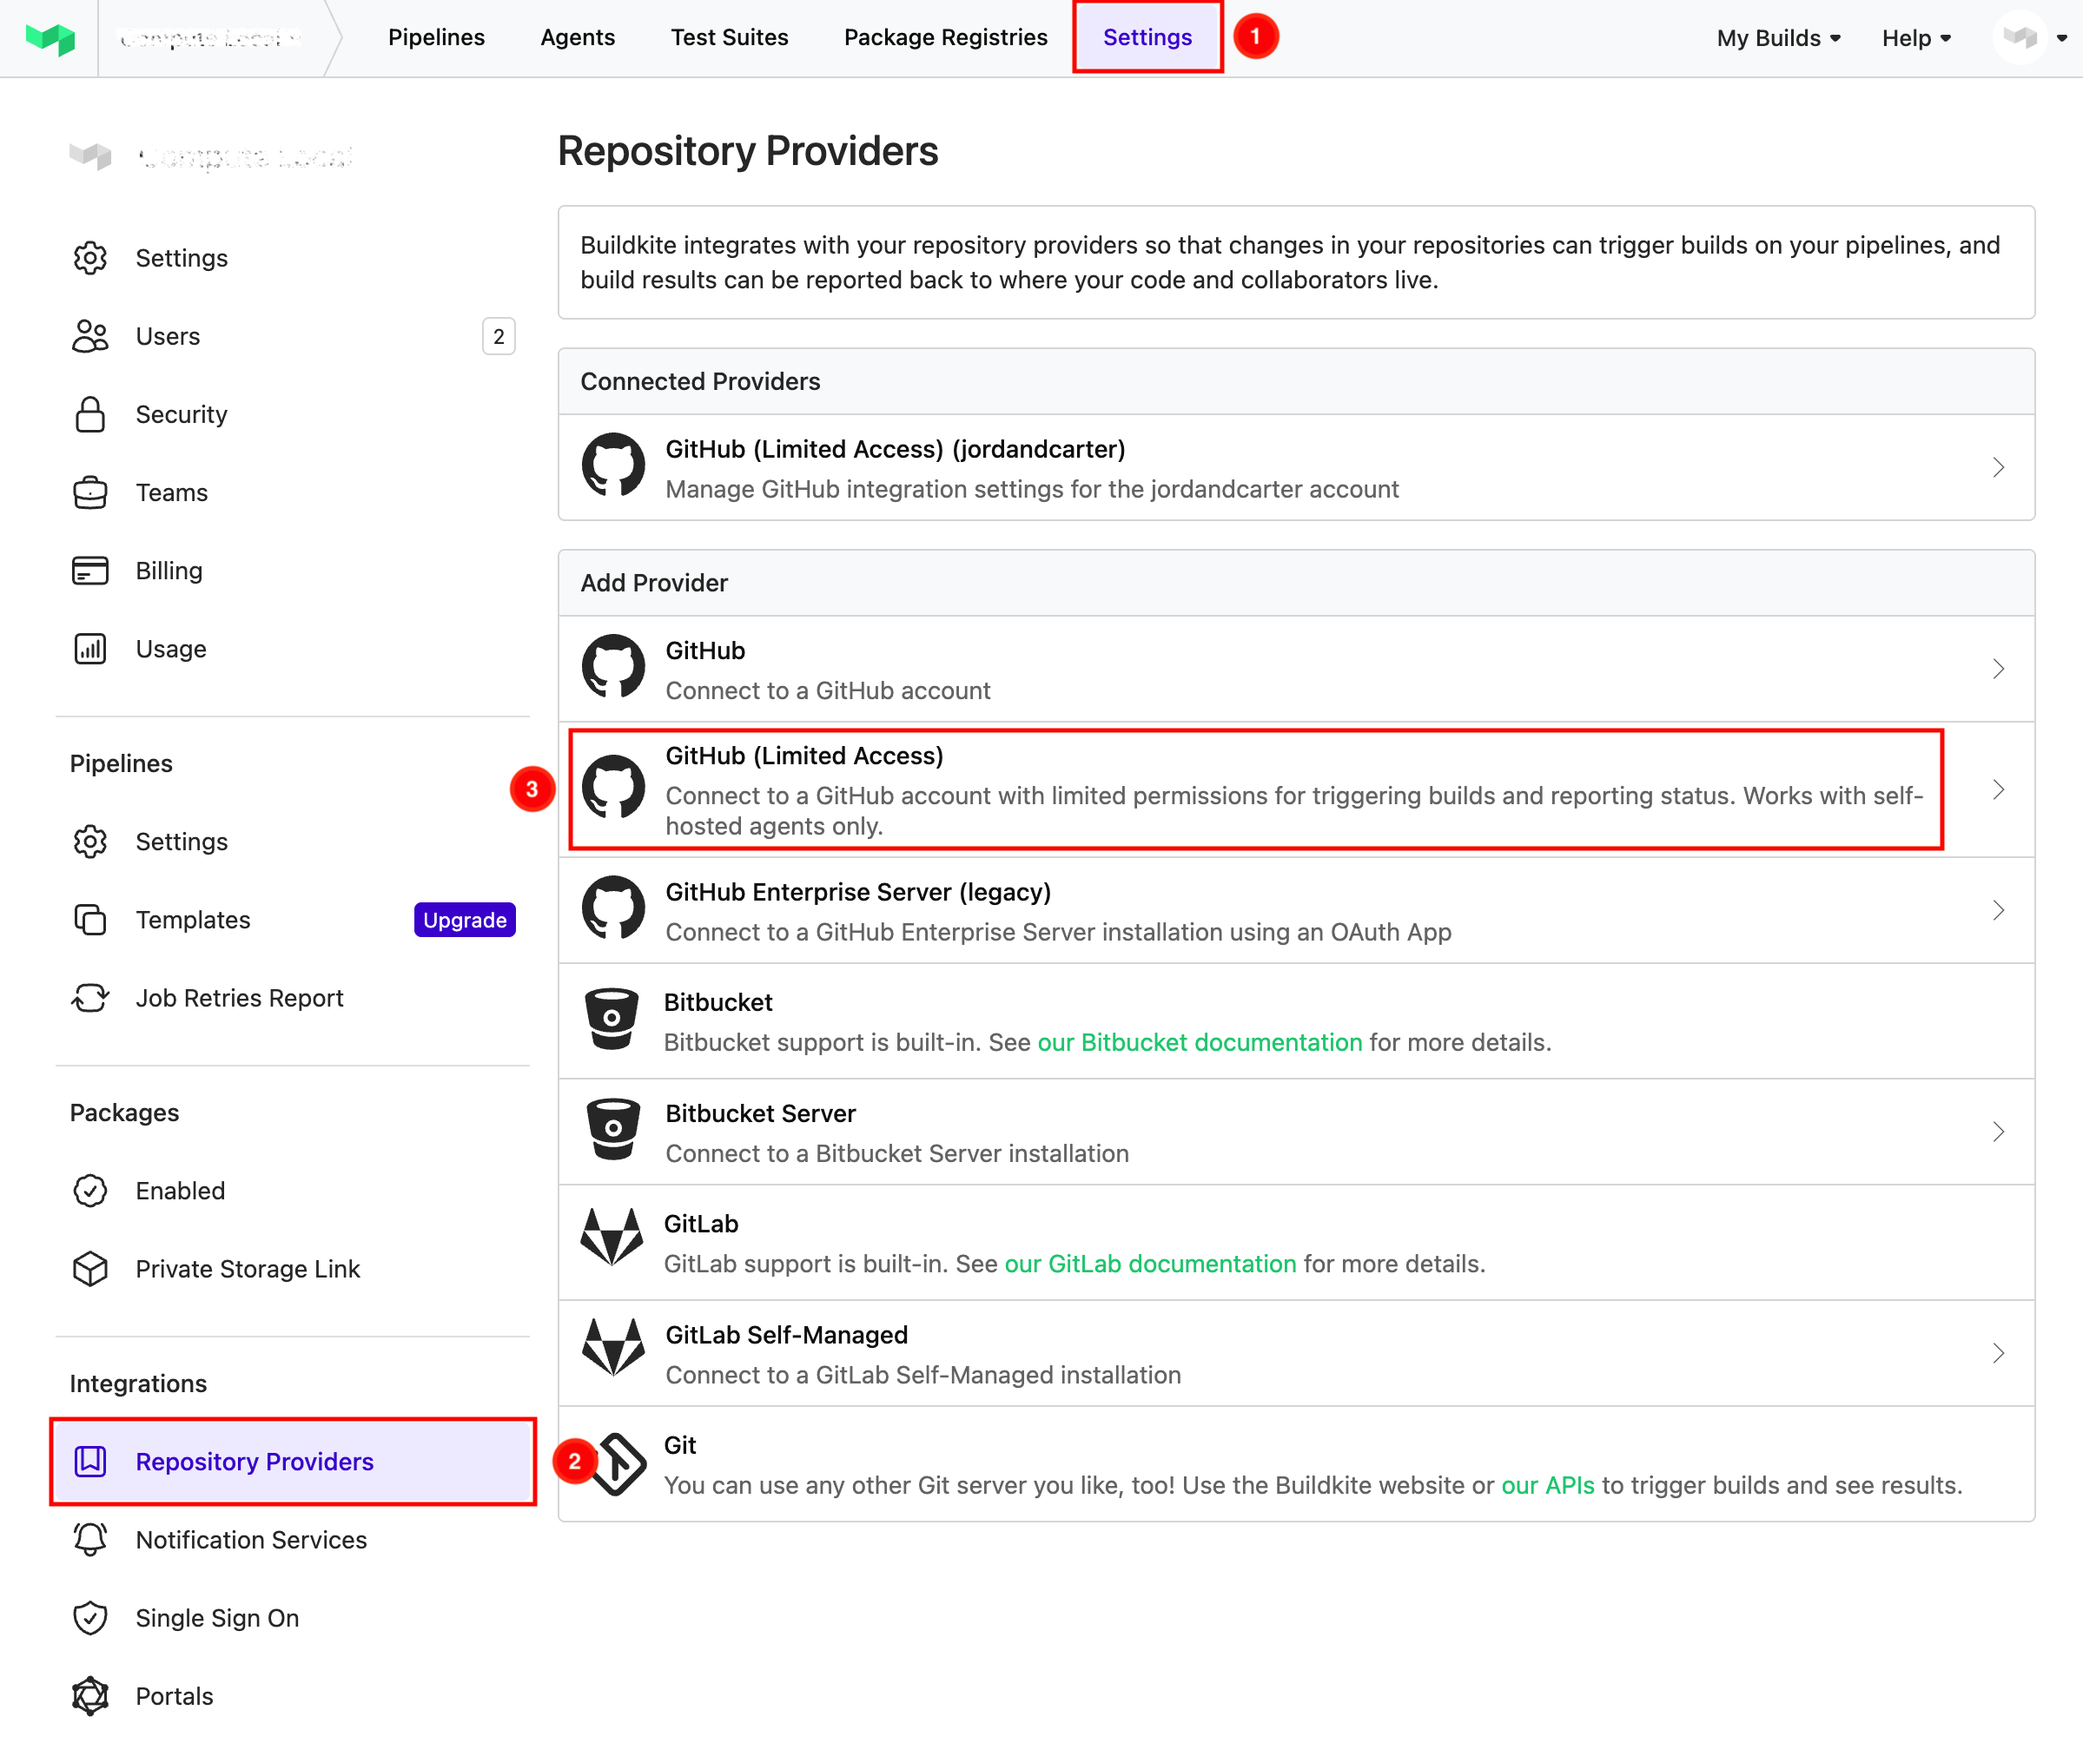
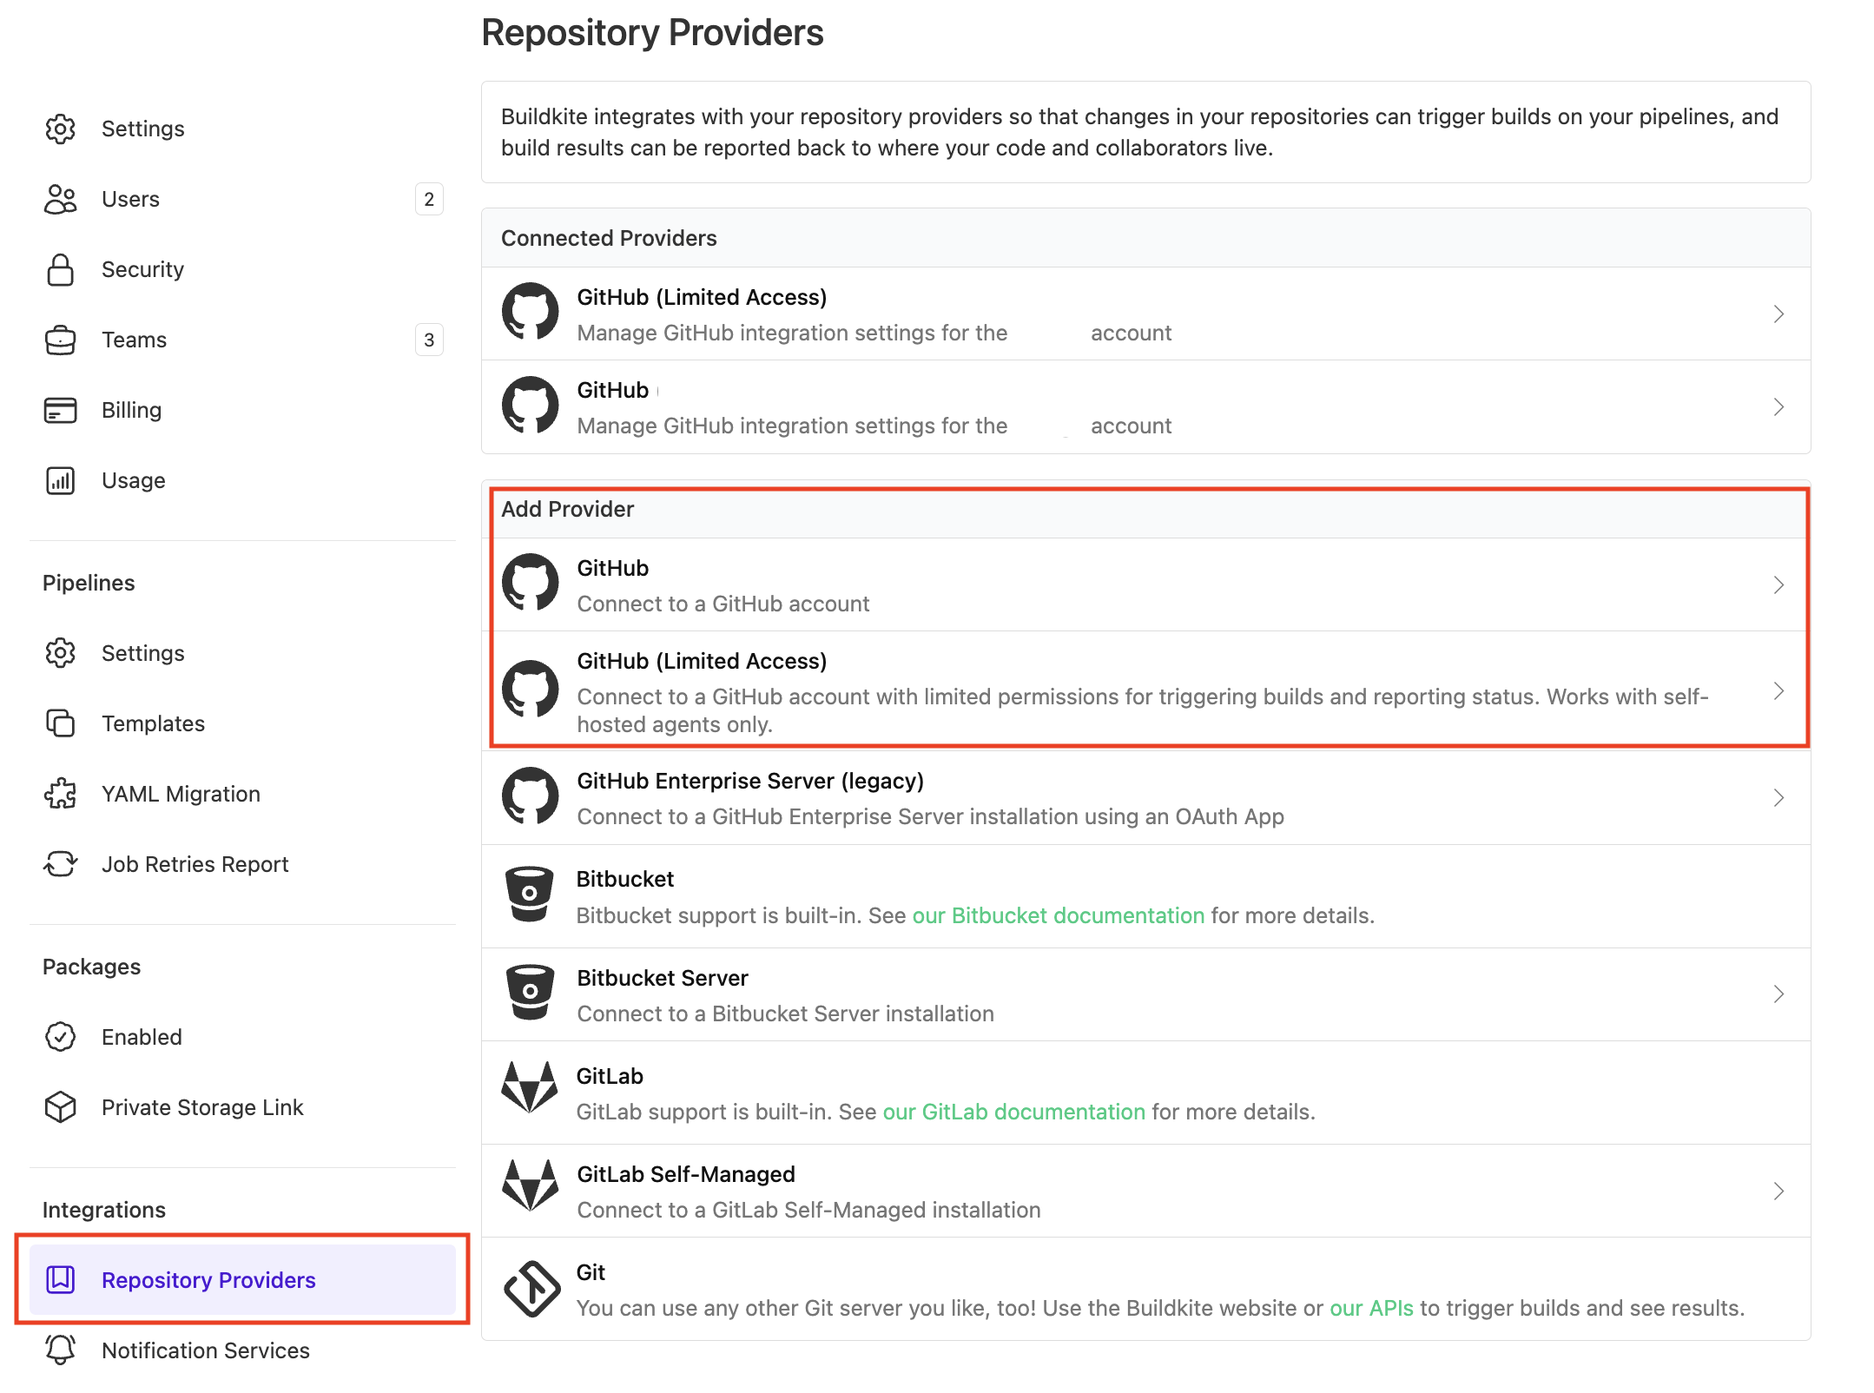
Add documentation explaining the difference between GitHub and GitHub (Limited Access) repository providers

diff --git a/pages/pipelines/source_control/github.md b/pages/pipelines/source_control/github.md
@@ -13,6 +13,35 @@ You can use the [Buildkite app for GitHub](#connect-your-buildkite-account-to-gi
 
 If you want to [connect using OAuth](#connect-your-buildkite-account-to-github-using-oauth) you can still do so from your **Personal Settings**.
 
+## GitHub repository provider options
+
+When you connect Buildkite to GitHub through a GitHub App, the **Repository Providers** page in your Buildkite organization settings presents two options:
+
+- **GitHub** — The full-access Buildkite GitHub App. This app has read access to your repository code and metadata, plus read and write access to checks, commit statuses, deployments, pull requests, and repository hooks. Use this option if you run builds on [Buildkite-hosted agents](/docs/agent/v3/buildkite-hosted), because Buildkite needs code access to clone your repository.
+- **GitHub (Limited Access)** — A limited-permissions Buildkite GitHub App. This app does not have code access, but has read access to metadata, plus read and write access to checks, commit statuses, deployments, pull requests, and repository hooks. Use this option if you run builds exclusively on [self-hosted agents](/docs/pipelines/architecture#self-hosted-hybrid-architecture).
+
+### Permissions comparison
+
+| Permission | **GitHub** | **GitHub (Limited Access)** |
+| --- | --- | --- |
+| Code | Read | No access |
+| Metadata | Read | Read |
+| Checks | Read and write | Read and write |
+| Commit statuses | Read and write | Read and write |
+| Deployments | Read and write | Read and write |
+| Pull requests | Read and write | Read and write |
+| Repository hooks | Read and write | Read and write |
+{: class="responsive-table"}
+
+### Choosing the right option
+
+Select **GitHub** if you use [Buildkite-hosted agents](/docs/agent/v3/buildkite-hosted) to run builds.
+
+Select **GitHub (Limited Access)** if you run builds exclusively on [self-hosted agents](/docs/pipelines/architecture#self-hosted-hybrid-architecture).
+
+> 📘 Using both GitHub Apps
+> If you use both Buildkite-hosted and self-hosted agents, you can install both apps and scope each to the relevant repositories. Alternatively, you can install only the **GitHub** (full access) app, which works with both agent types.
+
 ## Connect your Buildkite account to GitHub using the GitHub App
 
 Connecting Buildkite and GitHub using the GitHub App lets your GitHub organization admins see permissions and manage access on a per-repository basis.
@@ -21,7 +50,7 @@ Connecting Buildkite and GitHub using the GitHub App lets your GitHub organizati
 > The user adding the provider needs to be a Buildkite user connected to a GitHub user who has administrative privileges on both Buildkite and the GitHub organizations.
 
 1. Open your Buildkite organization's **Settings**.
-1. Select [**Repository Providers**](https://buildkite.com/organizations/~/repository-providers) > **GitHub (Limited Access)**.
+1. Select [**Repository Providers**](https://buildkite.com/organizations/~/repository-providers), then select **GitHub** or **GitHub (Limited Access)** depending on your requirements. See [GitHub repository provider options](#github-repository-provider-options) to determine which option is right for you.
     <%= image "repository-providers.png", width: 2338/2, height: 1600/2, alt: "Screenshot of the Buildkite Repository Providers" %>
 1. Select **Connect to a new GitHub Account**. If you have never connected your Buildkite and GitHub accounts before, you will first need to select **Connect** and authorize Buildkite.
 1. Select the GitHub organization you want to connect to your Buildkite organization.
@@ -31,11 +60,13 @@ You can now [set up a pipeline](#set-up-a-new-pipeline-for-a-github-repository).
 
 ## Buildkite GitHub permissions
 
-When you connect your GitHub organization, Buildkite needs the following permissions:
+The permissions Buildkite requests depend on which [GitHub repository provider option](#github-repository-provider-options) you select. Both options require the following permissions:
 
 - Read access to metadata. Learn more about this from [GitHub's documentation](https://docs.github.com/en/rest/authentication/permissions-required-for-github-apps#repository-permissions-for-metadata).
 
 - Read and write access to checks, commit statuses, deployments, pull requests, and repository hooks: this is needed for Buildkite to perform tasks such as running a build on pull requests and reporting that build status directly on the PR on GitHub.
+
+The **GitHub** (full access) option additionally requests read access to code, which allows Buildkite-hosted agents to clone your repository. The **GitHub (Limited Access)** option does not request code access.
 
 ## Set up a new pipeline for a GitHub repository
 
